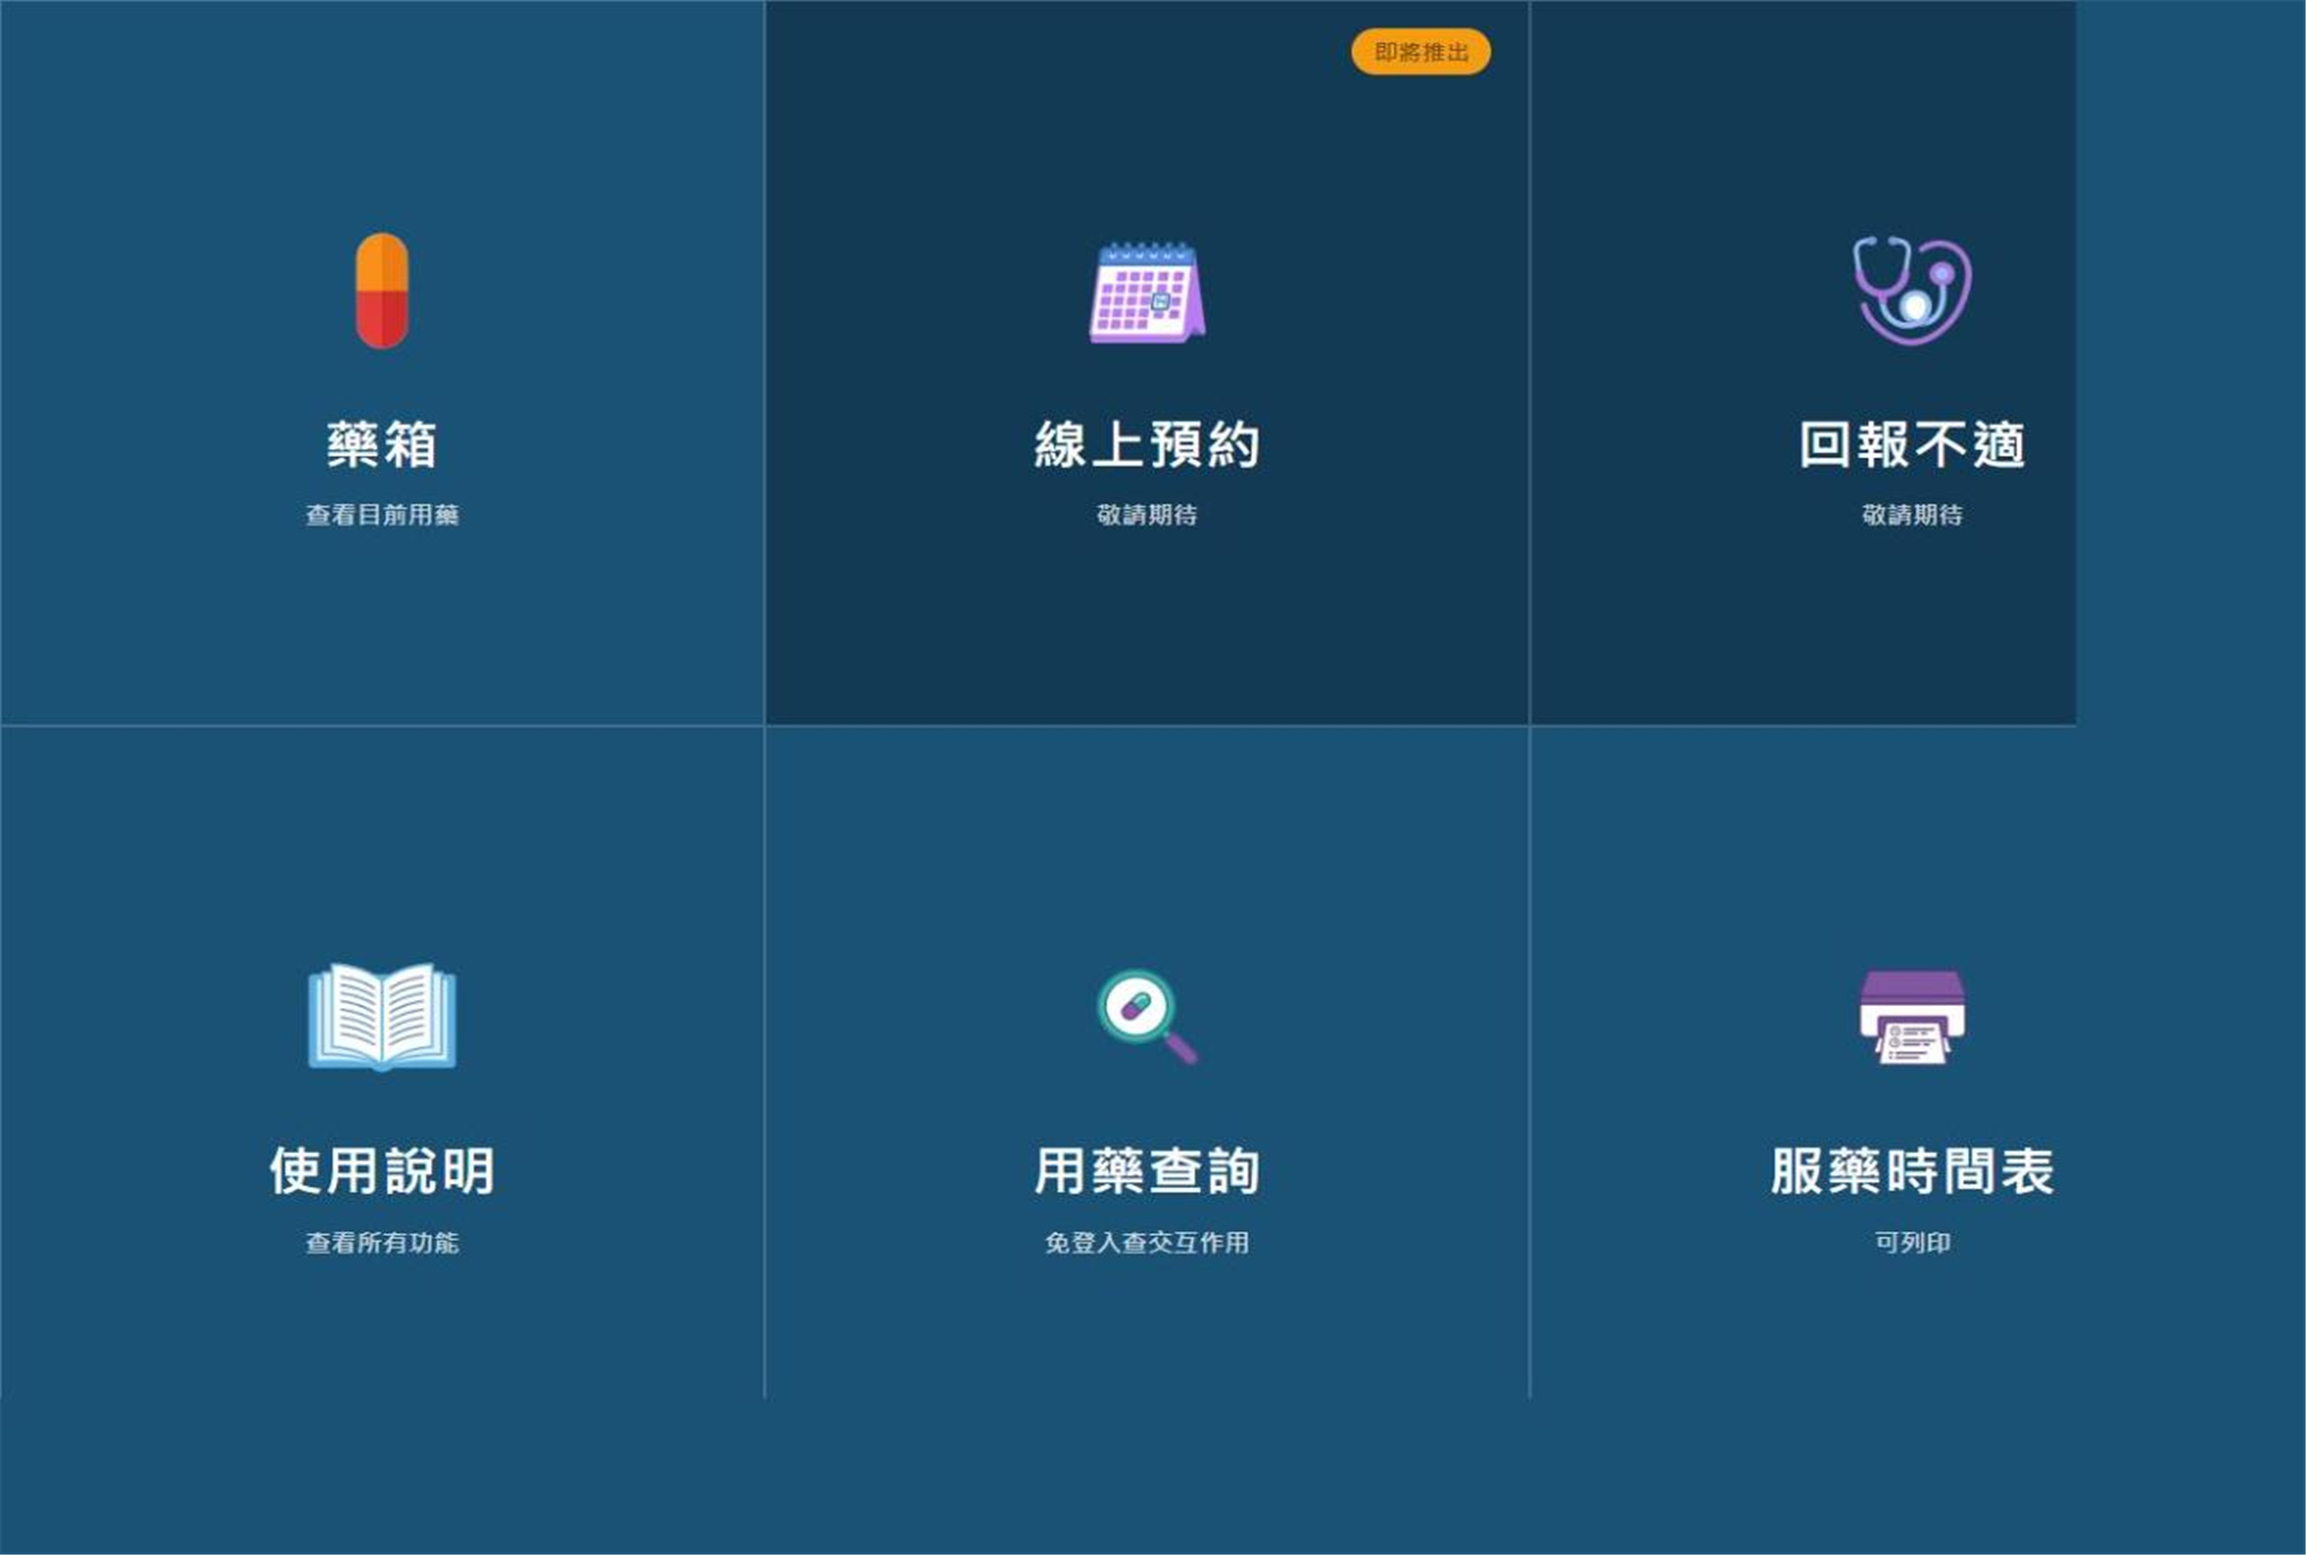
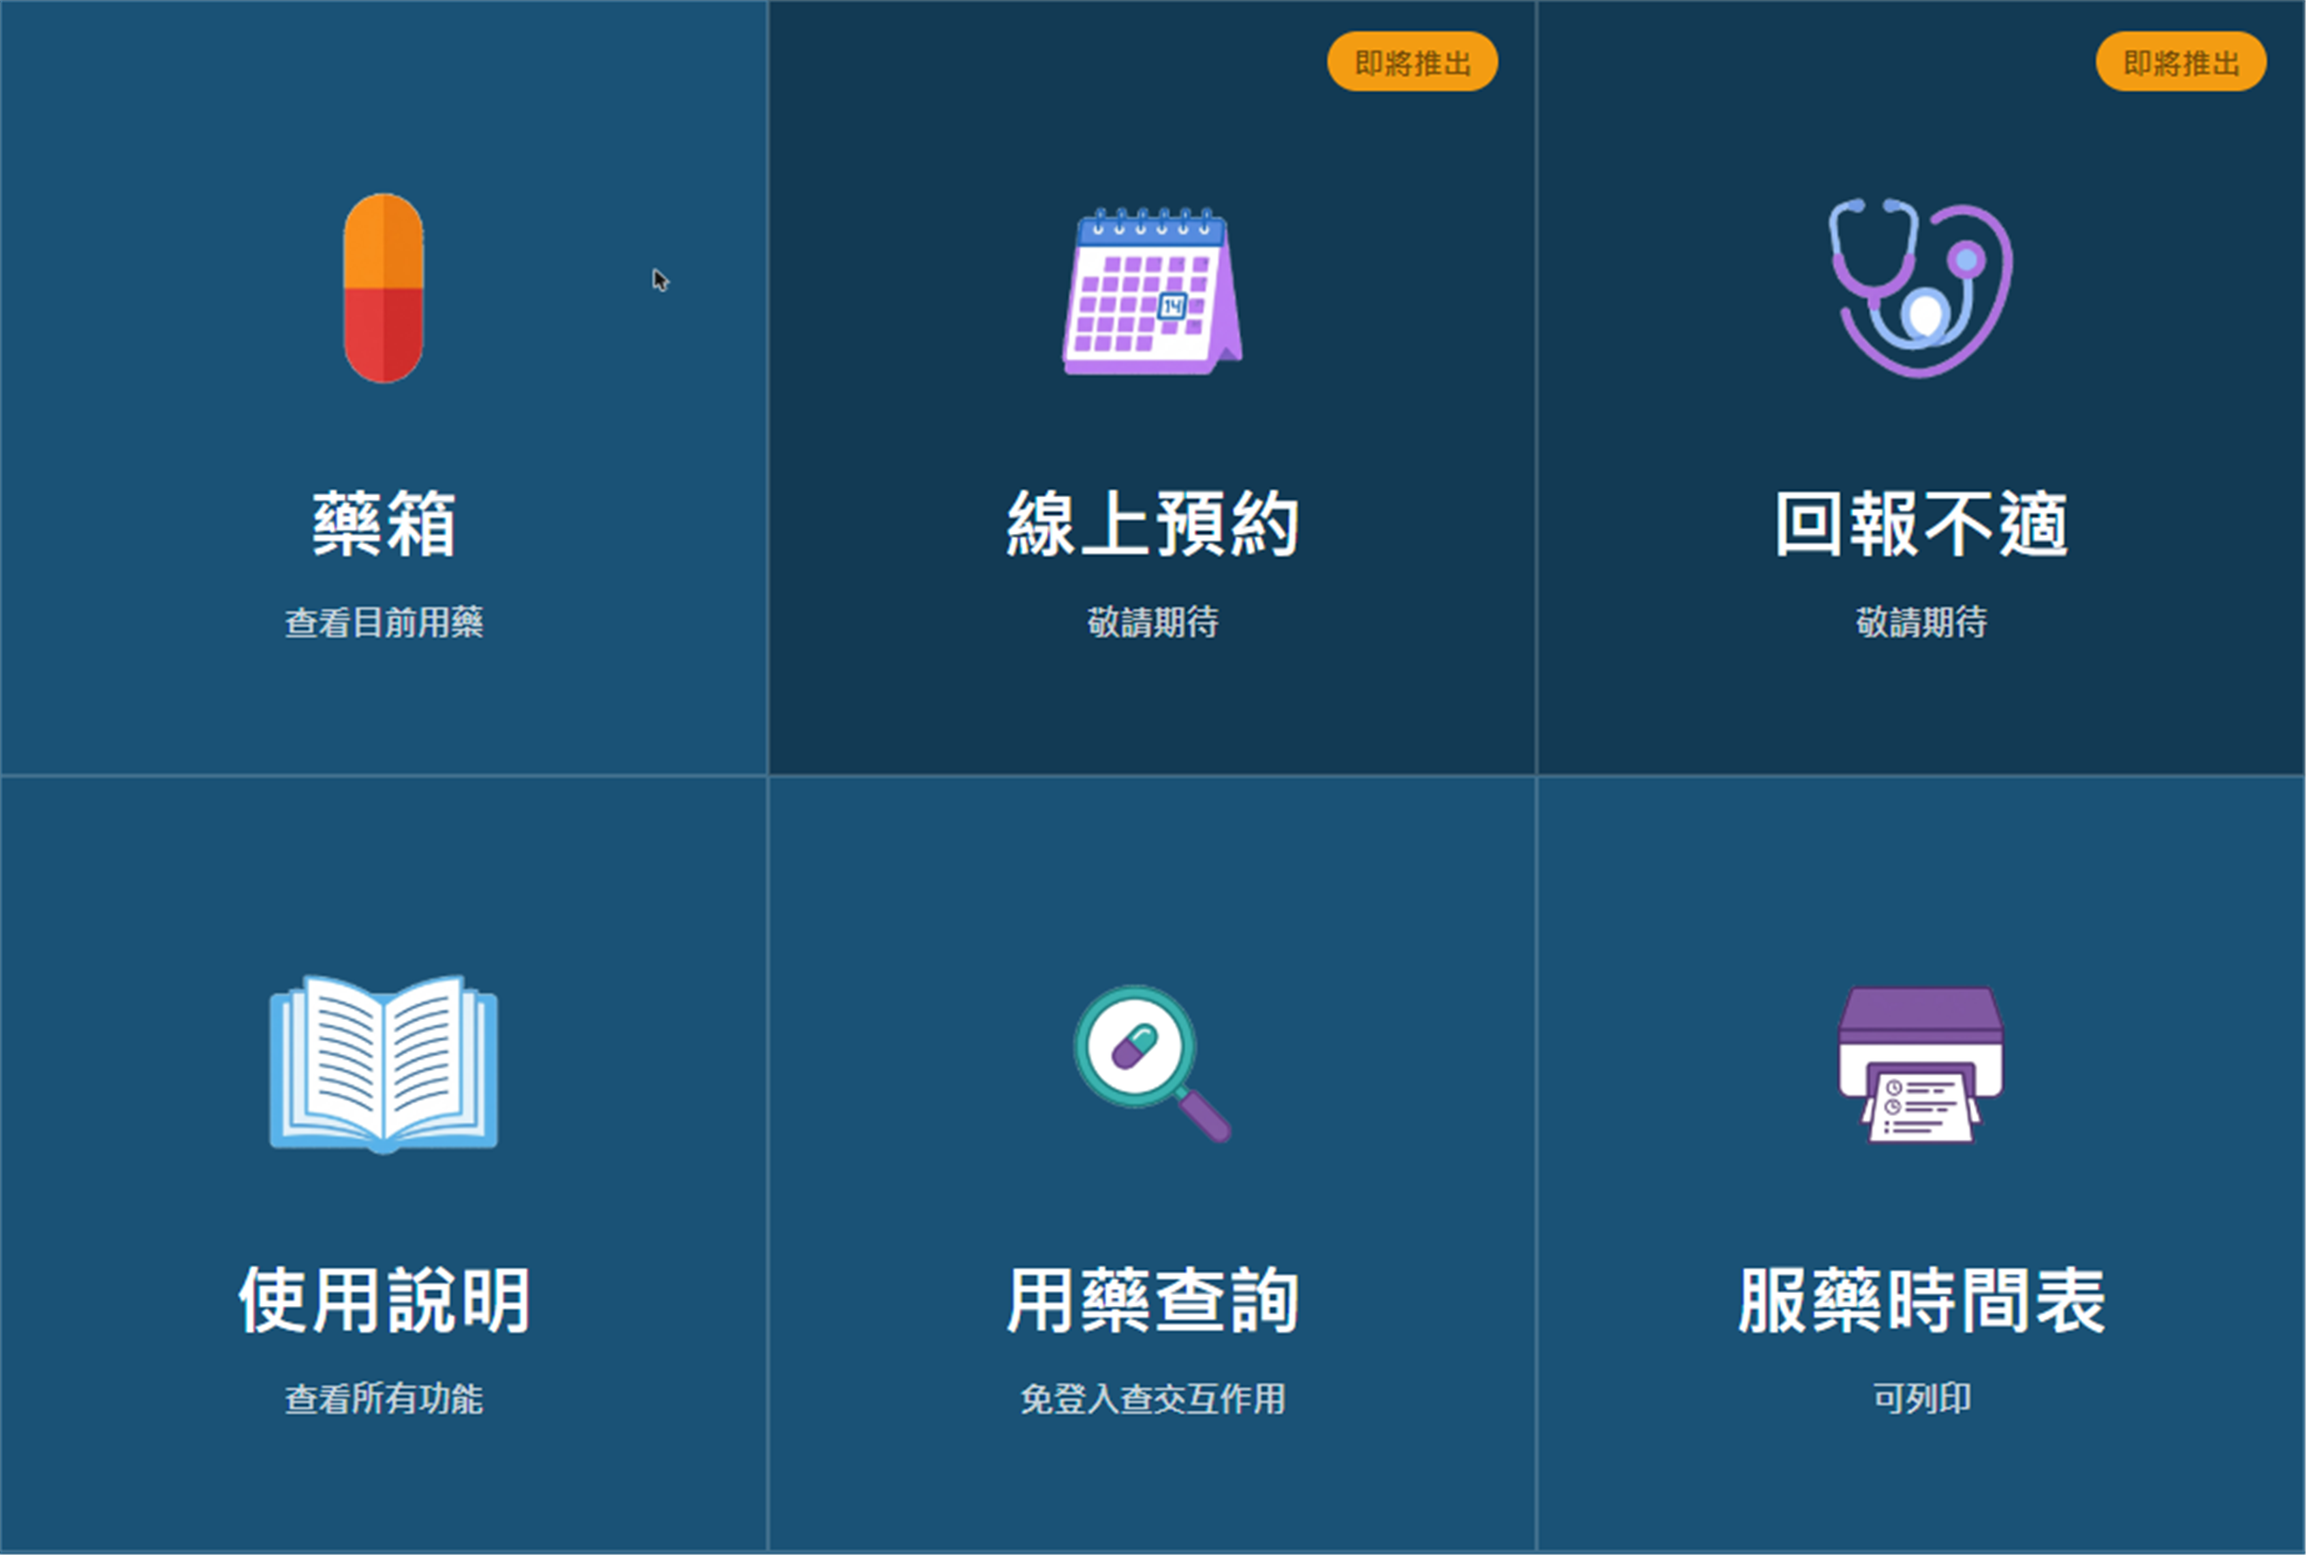
fix(line): Rich Menu 圖示放大，並修掉去背處理不穩定的兩張圖
使用者反映在 LINE 手機上看圖示/文字太小。richmenu-source.html 的
icon 從 220px 放大到 340px、標題字級 62→80px、副標 28→36px、
即將推出徽章字級同步放大，維持排版比例。

另外發現 appointment.png／symptom.png 的去背處理不穩定：先前用單一
PowerShell 程序批次處理六張圖時，這兩張間歇性地沒有真正寫入透明背景
（合成時偶爾又跑出白底方塊，重跑同一支批次腳本結果不一致），改成
每張圖各自獨立的程序呼叫後才穩定重現去背成功。已個別重新處理並在
四個角落都驗證 alpha=0。

Claude-Session: https://claude.ai/code/session_0191zCVhq5cBLuQtQxx7NACj

diff --git a/functions/assets/richmenu-source.html b/functions/assets/richmenu-source.html
@@ -27,18 +27,18 @@
     flex-direction:column;
     align-items:center;
     justify-content:center;
-    gap:24px;
+    gap:30px;
     border: 3px solid rgba(255,255,255,0.16);
   }
-  .icon { width:220px; height:220px; }
-  .label { font-size:62px; font-weight:800; color:#fff; letter-spacing:1px; }
-  .sub { font-size:28px; font-weight:600; color:rgba(255,255,255,0.75); }
+  .icon { width:340px; height:340px; }
+  .label { font-size:80px; font-weight:800; color:#fff; letter-spacing:1px; }
+  .sub { font-size:36px; font-weight:600; color:rgba(255,255,255,0.75); }
   .live { background:#1A5276; }
   .soon { background:#123A54; }
   .badge {
     position:absolute; top:32px; right:40px;
-    background:#F39C12; color:#7A4E06; font-weight:800; font-size:26px;
-    padding:9px 24px; border-radius:999px;
+    background:#F39C12; color:#7A4E06; font-weight:800; font-size:32px;
+    padding:11px 28px; border-radius:999px;
   }
 </style>
 </head>
